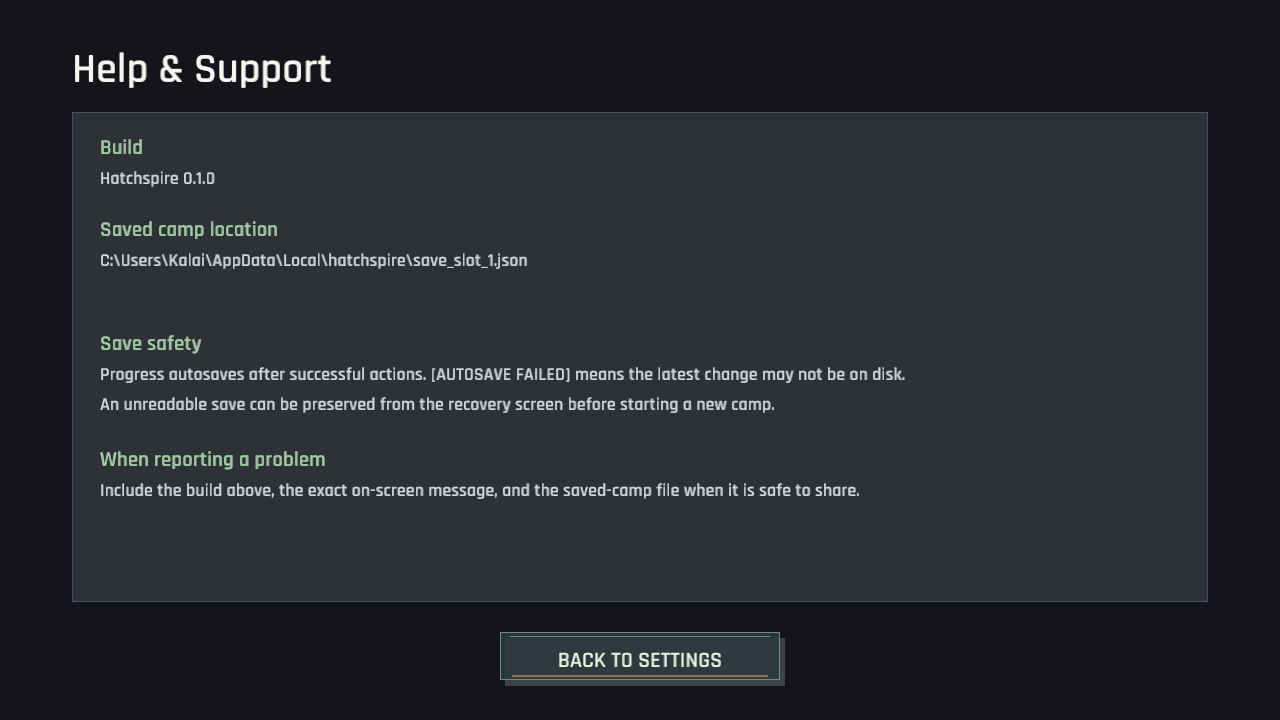
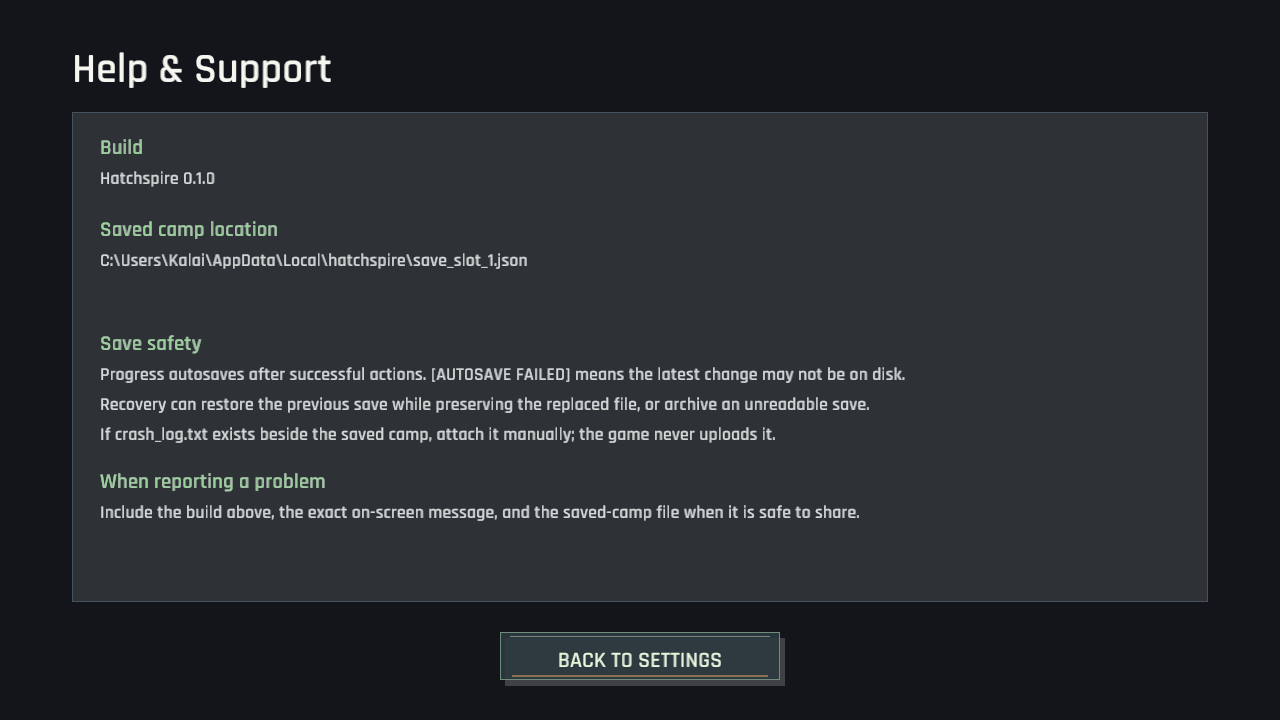
A fallen hatch leaves a report beside the camp ledger (local crash logging)
The shared toolkit could preserve panic details locally, but Hatchspire never installed its hook, leaving startup and runtime crashes without an actionable report. Install logging before window and settings setup, explain the adjacent crash_log.txt in Help, and state clearly that reports are never uploaded automatically. Refresh the verified Help capture and release-plan evidence.

Changed region(s): [[0.0625, 0.55, 0.6875, 0.7333]]

diff --git a/src/screens/help.rs b/src/screens/help.rs
@@ -57,12 +57,17 @@ pub fn draw(save_location: &str) {
         panel.x + 28.0,
         panel.y + 298.0,
     );
+    draw_value(
+        "If crash_log.txt exists beside the saved camp, attach it manually; the game never uploads it.",
+        panel.x + 28.0,
+        panel.y + 328.0,
+    );
 
-    draw_label("When reporting a problem", panel.x + 28.0, panel.y + 354.0);
+    draw_label("When reporting a problem", panel.x + 28.0, panel.y + 376.0);
     draw_value(
         "Include the build above, the exact on-screen message, and the saved-camp file when it is safe to share.",
         panel.x + 28.0,
-        panel.y + 384.0,
+        panel.y + 406.0,
     );
     ui::draw_title_button(back_rect(), "BACK TO SETTINGS", true);
 }

diff --git a/src/main.rs b/src/main.rs
@@ -1,12 +1,14 @@
 #![allow(clippy::too_many_arguments)]
 
 use macroquad::prelude::*;
-use macroquad_toolkit::capture;
+use macroquad_toolkit::{capture, crash};
 
 use hatchspire::game::Game;
 use hatchspire::settings::AppSettings;
 
 fn window_conf() -> Conf {
+    crash::install_crash_log("hatchspire");
+
     // Hand-built Conf means no automatic arming: without this the capture run
     // puts a full game window on the desktop for its whole duration.
     capture::headless::arm("HATCHSPIRE");

diff --git a/AI_AGENT_PC_DEMO_RELEASE_PLAN.md b/AI_AGENT_PC_DEMO_RELEASE_PLAN.md
@@ -16,7 +16,8 @@ Audit date: 26 August 2026
   save-location, and recovery help; independently persisted audio/display/motion preferences.
   Windowed UI scale now resizes the complete canvas across four tested sizes without cropping;
   supported historical saves normalize and rewrite at the current version. Each successful
-  replacement save now retains one restorable previous state without discarding the file it replaces.
+  replacement save now retains one restorable previous state without discarding the file it replaces;
+  native panics also append a local, manually shareable crash log beside the save.
 
 The working specification deliberately separates approved facts from proposed defaults. Updating
 its decision record is the gate that authorizes scope-sensitive gameplay changes.
@@ -81,7 +82,9 @@ The schedule is driven by feedback cycles rather than code volume. An agent can 
 - The Windows archive contains only the executable. It lacks a readme, support instructions, known issues, credits, license notices, and version identification.
 - Cargo remains at generic version `0.1.0`, which is now displayed in Help & Support. Assigning the
   approved demo version and richer build identifier remains a release-candidate task.
-- No Windows icon/version metadata, clean-machine launch test, antivirus/SmartScreen record, gamepad support, crash log, performance budget, or long-session soak gate is documented.
+- Native panics now append a local crash log beside the save. Windows icon/version metadata,
+  clean-machine launch tests, antivirus/SmartScreen records, gamepad support, a performance budget,
+  and a long-session soak gate remain absent.
 - Current automated flows prove systems in isolation and in short chains, not that a new player can understand, enjoy, and finish the demo.
 
 ## Agent-owned work

diff --git a/docs/pc_demo_release_checklist.md b/docs/pc_demo_release_checklist.md
@@ -45,6 +45,7 @@ Severity is based on player impact and the approved promise, not implementation 
 - [x] Windowed UI scale persists and preserves the complete canvas at 90%, 100%, 110%, and 125%.
 - [x] Supported historical saves normalize and rewrite fully; unreadable partial saves enter recovery.
 - [x] Each successful replacement save retains one rollback point; recovery preserves the displaced file before restoring it.
+- [x] Native panics append a local crash log beside the save and Help explains how to report it manually.
 - [ ] No crash, hang, progress loss, chroma leak, overlap, clipping, or missing asset exists on the route.
 - [ ] Master/music/SFX volume, mute, fullscreen/windowed, UI scale, and reduced motion persist.
 - [ ] Full-demo deterministic run, release smoke test, and soak gate pass.

diff --git a/README.md b/README.md
@@ -40,6 +40,7 @@ Turn a fragile camp into a working monster haven that can support increasingly d
 - Window UI scale resizes the complete fixed canvas to 90%, 100%, 110%, or 125% without clipping controls.
 - Supported older saves are normalized and rewritten at the current version when loaded.
 - Each successful replacement save keeps the previous state available through RESTORE BACKUP on the recovery screen.
+- Native crashes append a local `crash_log.txt` beside the save; nothing is uploaded automatically.
 - Mouse: build, open, trade, and greet.
 - Touch/mouse: every required tower action has a visible target, including room routing, EXPLORE, SURVEY, CAMP, RETREAT, event choices, and the Field Guide.
 
